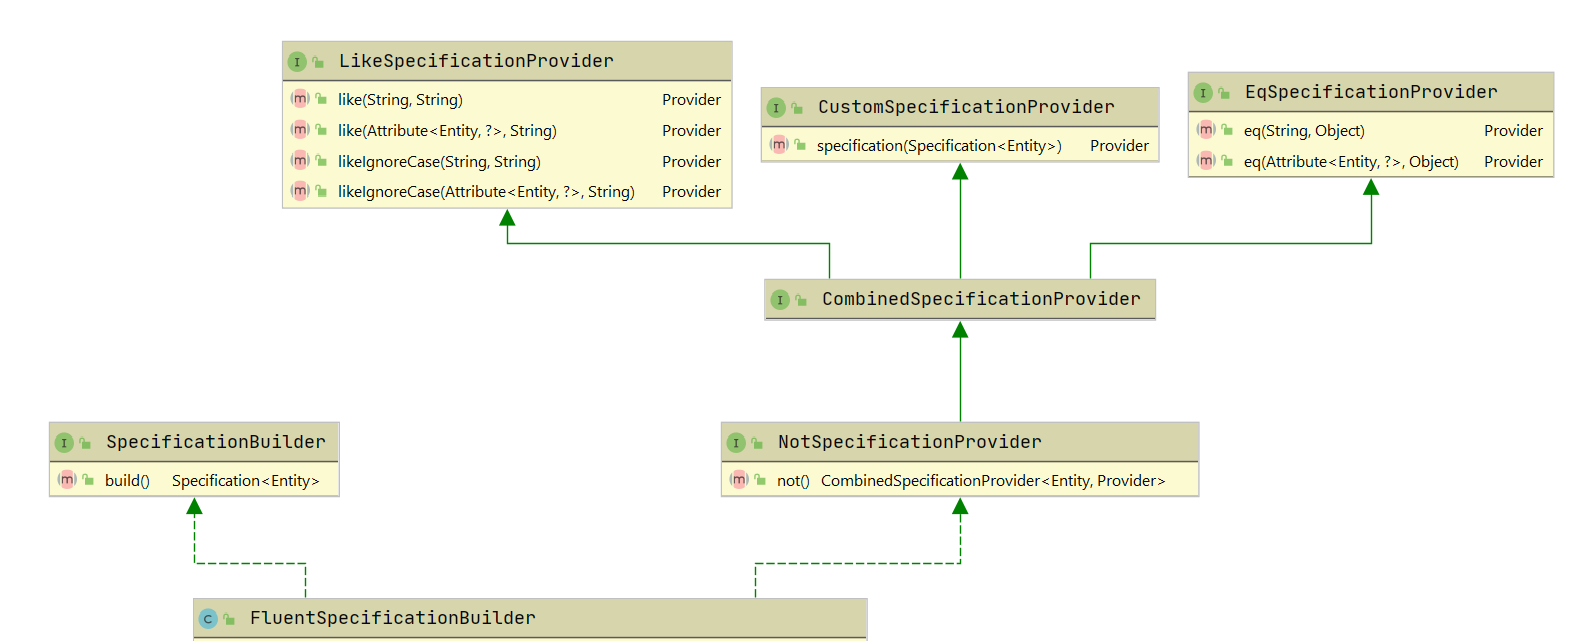
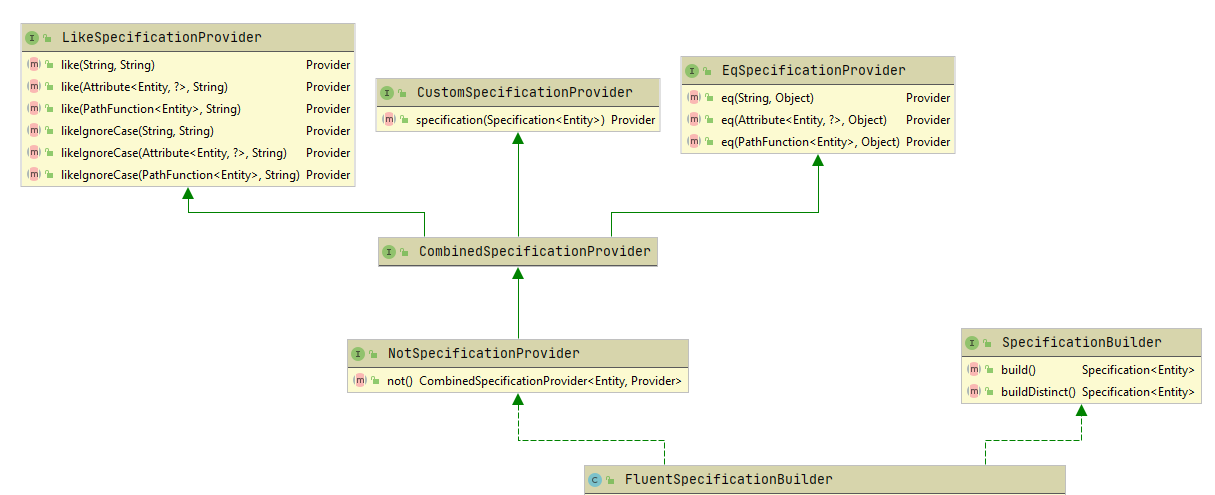
[#14] - Added documentation

diff --git a/README.md b/README.md
@@ -128,3 +128,13 @@ final var spec = FluentSpecificationBuilder()
                      )
                      .build();
 ```
+
+If you need to specify a field in a child entity, you can use `PathFunction`.
+
+```java
+final var spec = FluentSpecificationBuilder
+                     .<Student>combinedWithAnd()
+                     .like(Student_.name, "%a%")
+                     .not().eq(root -> root.get(Student_.university).get(University_.name), "MIT")
+                     .buildDistinct();
+```
